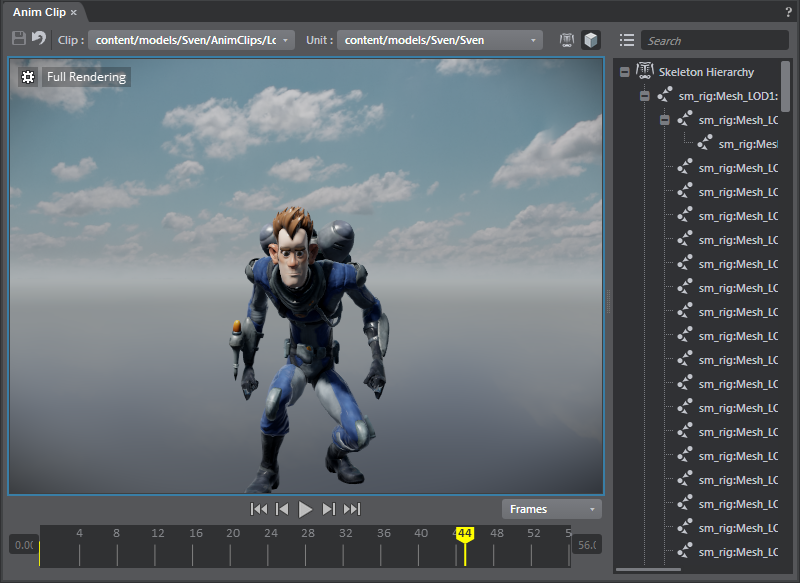
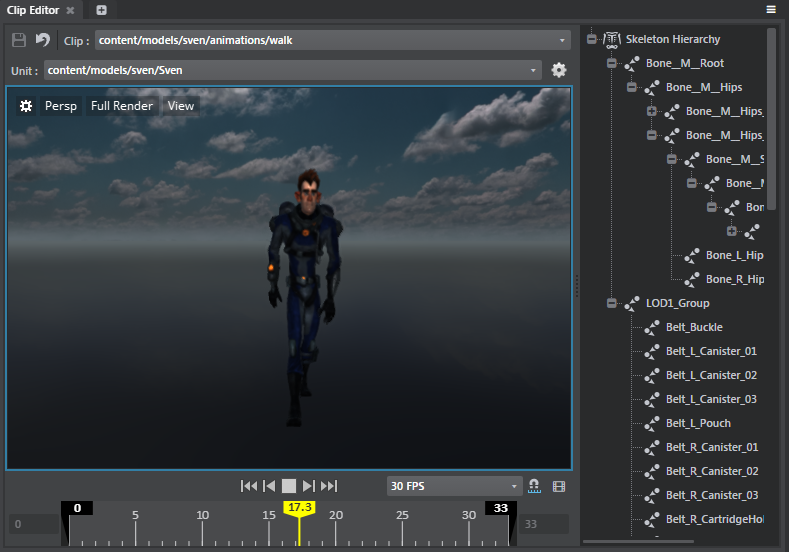
Add tips to Asset Browser doc, fix typos and rename for Clip Editor

diff --git a/source/stingray_help/getting_started/common_windows/asset_browser.md b/source/stingray_help/getting_started/common_windows/asset_browser.md
@@ -15,7 +15,9 @@ The **Asset Browser** is the main way to browse and import assets in your game p
 | Narrow asset types displayed in File view area  | Click the Filter icon ![ ](../../images/icon_filter.png) and enable only the types you want. |
 | Edit an original source scene in your DCC tool | Right-click an asset and select **Open Source Asset**.  |
 | Refresh current window  | F5  |
+| Focus Search field | Ctrl + F |
 | Return to the last opened folder  | Backspace  |
+| View history of assets navigated to | Alt + left arrow or right arrow to navigate back and forth. |
 | Open selected asset in Windows Explorer  | Right-click the asset and select **Show in Explorer**.  |
 | Open a directory location in Windows Explorer  | Right-click anywhere in the **File View** and select **Show in Explorer**.  |
 | Update assets in a scene  | Right-click the assets and select **Re-import** option to import them again using the **Import FBX** options window. Note that the Re-import option displays only for units, animation clips and skeletons.|
@@ -36,6 +38,8 @@ When you select an asset in the file view area, a preview displays in the ~{ Ass
 
 Use the vertical slider between the tree view and file view to control how large or small the file icons in the file view display. At maximum zoom, the files display in a list. At minimum zoom, the file icons display full thumbnails, which are generated when the asset is imported or updated.
 
+>**Tip:** Press Ctrl + mouse wheel over the file view to change the zoom level.
+
 ### Read-only files
 
 The file view indicates read-only folders and resources using a lock icon: ![Locked resource](../../images/icon_read_only.png).
@@ -51,6 +55,8 @@ To remove the favorite bookmark, select the asset or folder, and uncheck the Fav
 ## Searching
 
 Use the Search field above the file view to search for resource names within the currently selected folder and its sub-folders.
+
+>**Tip:** Press Ctrl + F to focus the Search field.
 
 Click the config icon ![ ](../../images/icon_config.png) to set search options.
 
@@ -72,20 +78,28 @@ You can also use the configuration options ![ ](../../images/icon_config.png) to
 
 When working with assets, you often need to replicate assets like materials and animation clips to try out different variations. To do so, right-click the asset in the **Asset Browser**, select **Duplicate** and assign a name for the asset. This creates a duplicate asset which you can edit independently of the original asset. You can also duplicate folders in the Tree view making it easy to organize and customize your assets.
 
+>**Tip:** Press Ctrl + D to duplicate selected assets.
+
 ## Accessing online assets
 
 ![](../../images/online_assets.png)
 
-Use the **Online Assets** tab in the Tree view to browse, search and find online assets.To download and import an asset to use in your project, do any of the following:
+Use the **Online Assets** in the Tree view to browse, search and find online assets.
 
-  - Right-click an asset and select **Download Asset**, or click the **Download and install asset** icon ![](../../images/online_assets_download.png).
-  - Select an asset and click the **Download** button in the **Property Editor**.
+- To download an online asset, do any of the following:
 
-Click the yellow icon ![](../../images/icon_status_bar_cancel_progress.png) to cancel downloading of the asset. The online assets are not listed in the Asset Browser if the Online Assets server is disconnected from the cloud services.
+    - Right-click an asset and select **Download Asset**, or click the **Download and install asset** icon ![](../../images/online_assets_download.png).
+    - Select an asset and click the **Download** button in the **Property Editor**.
 
-Use the Search field to search for an online asset. The number of matching assets are listed next to the Online Assets tab.
+- To cancel downloading of the asset, click the yellow icon ![](../../images/icon_status_bar_cancel_progress.png).
 
-  >**Tip**: To view or locate a downloaded asset in your project, select an installed asset (indicated with a green checkmark) and either click ![](../../images/icon_asset_browser_locate.png) or right-click and select **Locate in Project**.
+- To search for an online asset, use the Search field. The number of matching assets are listed next to the **Online Assets**.
+
+- To hide **Online Assets** from the Asset view, uncheck *Online Assets* in the configuration option ![ ](../../images/icon_config.png).
+
+- To view or locate a downloaded asset in your project, select an installed asset (indicated with a green checkmark) and either click ![](../../images/icon_asset_browser_locate.png) or right-click and select **Locate in Project**.
+
+The online assets are not listed in the Asset Browser if the Online Assets server is disconnected from the cloud services.
 
 ---
 Related topics:

diff --git a/source/stingray_help/animation/add_beats.md b/source/stingray_help/animation/add_beats.md
@@ -11,7 +11,7 @@ Using beats, you can create a beat called left when the left foot is forward and
 
 ## To add new beats or flow events:
 
-1. Open the ~{ Anim Clip Editor }~.
+1. Open the ~{ Animation Clip Editor }~.
 
 2. Right-click on the timeline, and select **Add Beat > New Beat** or **Add Flow Event > New Flow Event**.
 
@@ -19,17 +19,33 @@ Using beats, you can create a beat called left when the left foot is forward and
 
   ![Add Event options](../images/addBeatTrigger_options.png)
 
+  <dl>
+
+  <dt>Event type</dt>
+
+  <dd>Set to beat, or flow event.</dd>
+
+  <dt>Event name<dt>
+
+  <dd>Enter a name for this event.</dd>
+
+  <dt>Event time (Frames or Seconds)</dt>
+
+  <dd>Enter an exact frame value (or time in seconds depending on the toggle option) where you want the beat or flow event to occur. (By default the value is set to the frame where you right-click.)</dd>
+
+  </dl>
+
 (All events that you add – you right-click to create the event type/marker type.)
 
 ## To add existing beats or flow events:
 
-1. In the ~{ Anim Clip Editor }~ timeline, right-click on the frame where you want to add the beat or the flow event, click **Add Beat > Existing** or  **Add Flow Event > Existing** and select one of the existing beat or flow events.
+1. In the **Clip Editor** timeline, right-click on the frame where you want to add the beat or the flow event, click **Add Beat > Existing** or  **Add Flow Event > Existing** and select one of the existing beat or flow events.
 
   The beat or the flow event is set to the timeline and upon selection, you can view its properties in the **Property Editor**.
 
 ## To modify the beats or flow events on the timeline:
 
-1. Click the beat or the flow event on the **Anim Clip** editor timeline.
+1. Click the beat or the flow event on the **Clip Editor** timeline.
 
 2. In the **Property Editor**, select a different flow event in the **Name** field or set a new time.
 

diff --git a/source/stingray_help/animation/previewing_animation.md b/source/stingray_help/animation/previewing_animation.md
@@ -4,7 +4,7 @@ The various preview windows in the animation tools and the ~{ Asset Preview }~ w
 
 If you create an **Animation/On Animation Controller Flow Events** node in the unit Flow graph, an event with the same name gets emitted from that node when the animation is being played. This lets you connect specific things that happen in the animation (such as foot plants) with sound or particle effects.
 
-You can add Flow events either in the ~{ Anim Clip Editor }~ or in the animation controller. Flow events created in the animation controller are specific to a particular animation state and occur whenever that state is played, regardless of what mix of animations the state is playing.
+You can add Flow events either in the ~{ Animation Clip Editor }~ or in the animation controller. Flow events created in the animation controller are specific to a particular animation state and occur whenever that state is played, regardless of what mix of animations the state is playing.
 
 Flow events from the **Anim Clip** Editor are owned by the animation, so they will be triggered whenever the animation is played regardless of what state it belongs to.
 

diff --git a/source/stingray_help/animation/anim_trim.md b/source/stingray_help/animation/anim_trim.md
@@ -1,18 +1,18 @@
 # Trim animation clips
 
-You can trim animation clips in the ~{ Anim Clip Editor }~ to edit the length of the animation frames.
+You can trim animation clips in the ~{ Animation Clip Editor }~ to edit the length of the animation frames.
 
 To trim an animation,
 
 1. Do either of the following:
 
-    + On the animation clip editor timeline, drag the trim handles to set new start/end frame for the clip.
+    + On the animation **Clip Editor** timeline, drag the trim handles to set new start/end frame for the clip.
     + Modify the **Trimming Start** and **Trimming End** values in the **Property Editor**.
 
       ![](../images/anim_clip_trim.png)
 
 2. Save the animation clip.
-3. The **Asset Preview** now plays the trimmed clip. The animation clip editor still contains the full length of the animation, and you can restore the clip or retrim as desired.
+3. The **Asset Preview** now plays the trimmed clip. The animation **Clip Editor** still contains the full length of the animation, and you can restore the clip or retrim as desired.
 
 ---
 Related topics:

diff --git a/source/stingray_help/reference/window_menu.md b/source/stingray_help/reference/window_menu.md
@@ -42,10 +42,6 @@
 
 >Launches the **Creative Market** panel. Browse and purchase game assets from Creative Market.  See ~{ Download assets and example projects }~.
 
-**Front End Tests**
-
->Launches the **Front End Tests** tool with a series of tests to verify whether all data service specifications are met.
-
 **Dependency**
 
 >Launches the **Dependency** tool to check for file dependencies. <!-- TODO: Link to video tutorial when it's ready -->
@@ -90,10 +86,6 @@
 
 >Launches the ~{ Property Editor }~.
 
-**Script Debugger**
-
->Launches the **Script Debugger**. See ~{ Using the Script Debugger }~.
-
 **Script Editor**
 
 >Launches the **Script Editor**. See ~{ Using the Script Editor }~.
@@ -112,15 +104,15 @@
 
 ###ANIMATION
 
-**Anim Clip**
+**Clip Editor**
 
->Opens the ~{ Anim Clip Editor }~.
+>Opens the ~{ Animation Clip Editor }~.
 
 **Anim Controller**
 
 >Opens the ~{ Anim Controller Editor }~.
 
-**Skeleton**
+**Skeleton Editor**
 
 >Opens the **Skeleton Editor**
 

diff --git a/source/stingray_help/animation/anim_clip_editor.md b/source/stingray_help/animation/anim_clip_editor.md
@@ -1,6 +1,6 @@
-# Anim Clip Editor
+# Animation Clip Editor
 
-- **Window > Animation > Anim Clip**
+- **Window > Animation > Clip Editor**
 
 This editor lets you modify animation clips.
 
@@ -8,23 +8,8 @@ Double-click a clip in the **Asset Browser** to load it in the editor.
 
 ![Anim Clip Editor](../images/anim_clip_editor.png)
 
->**Note:** You can trim animation clips in the timeline of the clip editor.
+>**Note:** You can trim animation clips in the timeline of the **Clip Editor**.
 
-<dl>
-
-<dt>Event type</dt>
-
-<dd>Set to beat, or flow event.</dd>
-
-<dt>Event name<dt>
-
-<dd>Enter a name for this event.</dd>
-
-<dt>Event time (Frames or Seconds)</dt>
-
-<dd>Enter an exact frame value (or time in seconds depending on the toggle option) where you want the beat or flow event to occur. (By default the value is set to the frame where you right-click.)</dd>
-
-</dl>
 
 ---
 Related topics:

diff --git a/source/stingray_help/animation/animation_perf.md b/source/stingray_help/animation/animation_perf.md
@@ -87,7 +87,7 @@ Dynamic actors that are "awake" are bright yellow. Sleeping actors are a dull ye
 
 Create some ragdolls and make sure that they go to sleep after a while. Try spawning them on different types of ground. Sometimes a ragdoll can sleep fine on flat ground, but will have problems in stairs or on ramps.
 
-## Skeleon LOD performance
+## Skeleton LOD performance
 
 Setting up skeleton LODs (levels of detail) improves performance by disabling the animation of small bones (such as fingers) at distances where their movement isn't visible. When animation is disabled for a bone it will freeze in its current position in local space.
 

diff --git a/source/stingray_help/importing_assets/import_anim_clips.md b/source/stingray_help/importing_assets/import_anim_clips.md
@@ -26,7 +26,7 @@
 
 5. In the animation clip properties, toggle **Import Transform Curves**, **Import Blend Shape Channel Curves**, or **Import Extra Curves** to control the type of curves that are evaluated during playback.
 
-6. You can trim the imported animation clips in the ~{ Anim Clip Editor }~. See ~{ Trim animation clips }~.
+6. You can trim the imported animation clips in the ~{ Animation Clip Editor }~. See ~{ Trim animation clips }~.
 
 ---
 Related topics:

diff --git a/source/stingray_help/building_levels/paint_scatter/scatter_tool_properties.md b/source/stingray_help/building_levels/paint_scatter/scatter_tool_properties.md
@@ -17,7 +17,7 @@ When you create a new Scatter Brush, the following properties appear in the Prop
 
 <dt>Frequency</dt>
 
-<dd>Sets the weight of the currerntly selected unit in relation to the other units associated with your scatter brush.</dd>
+<dd>Sets the weight of the currently selected unit in relation to the other units associated with your scatter brush.</dd>
 
 
 <dt>Orientation</dt>
